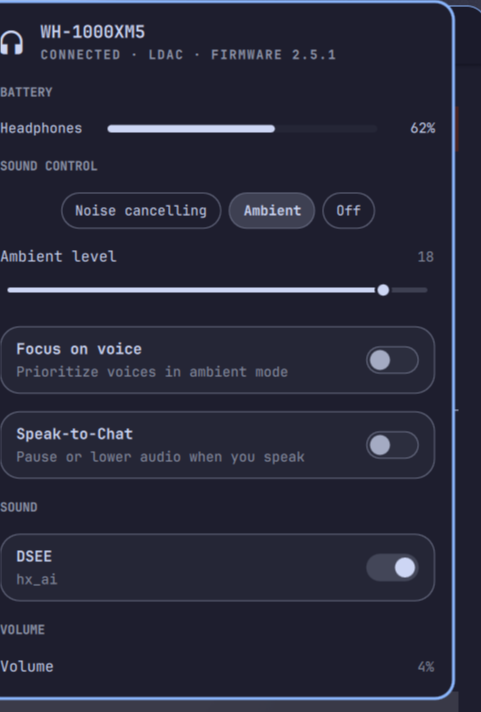
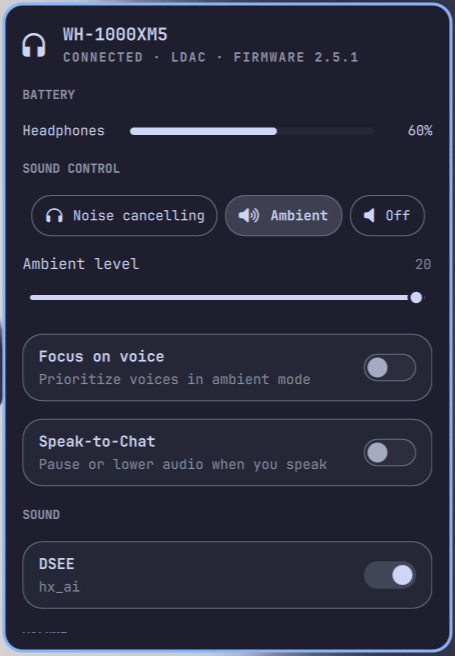
fix: normalize volume and polish sound controls

Changed region(s): [[0.0, 0.0, 1.0, 1.0], [0.7692, 0.061, 0.8, 0.0915]]

diff --git a/Panel.qml b/Panel.qml
@@ -30,23 +30,23 @@ Panel {
     var actions = []
     if (!service || !service.connected) return actions
     if (service.status.capabilities.noiseCancelling)
-      actions.push({ key: Model.NOISE_ANC, label: "Noise cancelling", icon: "", selected: service.noiseMode === Model.NOISE_ANC })
+      actions.push({ key: Model.NOISE_ANC, label: "Noise cancelling", glyph: "", selected: service.noiseMode === Model.NOISE_ANC })
     if (service.status.capabilities.ambientSound)
-      actions.push({ key: Model.NOISE_AMBIENT, label: "Ambient", icon: "", selected: service.noiseMode === Model.NOISE_AMBIENT })
-    actions.push({ key: Model.NOISE_OFF, label: "Off", icon: "", selected: service.noiseMode === Model.NOISE_OFF })
+      actions.push({ key: Model.NOISE_AMBIENT, label: "Ambient", glyph: "", selected: service.noiseMode === Model.NOISE_AMBIENT })
+    actions.push({ key: Model.NOISE_OFF, label: "Off", glyph: "", selected: service.noiseMode === Model.NOISE_OFF })
     return actions
   }
   readonly property var equalizerActions: {
     var actions = []
     for (var index = 0; index < eqPresets.length; ++index) {
       var preset = eqPresets[index]
-      actions.push({ key: preset, label: Model.presetLabel(preset), icon: "", selected: service && service.equalizerPreset === preset })
+      actions.push({ key: preset, label: Model.presetLabel(preset), glyph: "", selected: service && service.equalizerPreset === preset })
     }
     return actions
   }
   readonly property var connectionActions: service && service.connected && service.status.capabilities.connectionMode ? [
-    { key: "quality", label: "Sound quality", icon: "", selected: service.connectionPriority === "quality" },
-    { key: "stable", label: "Stable connection", icon: "", selected: service.connectionPriority === "stable" }
+    { key: "quality", label: "Sound quality", glyph: "", selected: service.connectionPriority === "quality" },
+    { key: "stable", label: "Stable connection", glyph: "", selected: service.connectionPriority === "stable" }
   ] : []
   readonly property var visibleSections: {
     var sections = []
@@ -204,8 +204,8 @@ Panel {
     bar: root.bar
     open: root.opened
     focusTarget: keyCatcher
-    contentWidth: panel.fittedContentWidth(Style.space(380))
-    contentHeight: panel.fittedContentHeight(content.implicitHeight, Style.space(560))
+    contentWidth: panel.fittedContentWidth(Style.space(360))
+    contentHeight: panel.fittedContentHeight(content.implicitHeight, Style.space(520))
 
     PanelKeyCatcher {
       id: keyCatcher
@@ -495,12 +495,12 @@ Panel {
 
   component ActionButton: Button {
     id: action
-    property string icon: ""
+    property string glyph: ""
     property string label: ""
     signal triggered()
 
     text: label
-    iconText: icon
+    iconText: action.glyph
     bordered: true
     foreground: root.foreground
     accent: Color.accent
@@ -554,7 +554,7 @@ Panel {
                 required property int index
                 readonly property int actionIndex: rowSlot.index * buttonGroup.columnCount + index
 
-                icon: modelData.icon || ""
+                glyph: String(modelData.glyph || "")
                 label: modelData.label || ""
                 selected: modelData.selected === true
                 hasCursor: root.cursorActive && root.focusSection === buttonGroup.sectionName

diff --git a/tests/model.test.js b/tests/model.test.js
@@ -84,6 +84,24 @@ assert.deepEqual(Array.from(context.noiseArgs("ambient")), ["noise", "ambient"])
 assert.deepEqual(Array.from(context.noiseArgs("invalid")), [])
 assert.deepEqual(Array.from(context.ambientArgs(99)), ["ambient-level", "20"])
 assert.deepEqual(Array.from(context.volumeArgs(-5)), ["volume", "0"])
+assert.deepEqual(Array.from(context.volumeArgs(101)), ["volume", "100"])
+assert.equal(context.mdrVolumeToPercent(0), 0)
+assert.equal(context.mdrVolumeToPercent(1), 3)
+assert.equal(context.mdrVolumeToPercent(15), 50)
+assert.equal(context.mdrVolumeToPercent(30), 100)
+assert.equal(context.percentToMdrVolume(0), 0)
+assert.equal(context.percentToMdrVolume(20), 6)
+assert.equal(context.percentToMdrVolume(50), 15)
+assert.equal(context.percentToMdrVolume(100), 30)
+assert.equal(context.canonicalVolumePercent(18), 17)
+assert.equal(context.canonicalVolumePercent(20), 20)
+assert.equal(context.canonicalVolumePercent(50), 50)
+assert.equal(context.canonicalVolumePercent(99), 100)
+for (let percent = 0; percent <= 100; ++percent) {
+  const canonical = context.canonicalVolumePercent(percent)
+  assert.ok(Math.abs(canonical - percent) <= 2)
+  assert.equal(context.canonicalVolumePercent(canonical), canonical)
+}
 assert.equal(context.levelText(context.UNKNOWN_LEVEL), "--")
 assert.equal(context.elideError("x\n   y"), "x y")
 assert.ok(context.elideError("x".repeat(400)).length <= context.MAX_ERROR_CHARS)

diff --git a/Model.js b/Model.js
@@ -17,6 +17,8 @@ var NOISE_AMBIENT = "ambient"
 
 var MAX_ERROR_CHARS = 160
 var HEADPHONES_ICON = ""
+var MDR_VOLUME_MAXIMUM = 30
+var VOLUME_PERCENT_MAXIMUM = 100
 
 function defaultBattery() {
   return { present: false, level: UNKNOWN_LEVEL, charging: "unknown" }
@@ -329,6 +331,20 @@ function ambientArgs(level) {
   return ["ambient-level", String(clamp(intOr(level, 1), 1, 20))]
 }
 
+function mdrVolumeToPercent(level) {
+  var clamped = clamp(intOr(level, 0), 0, MDR_VOLUME_MAXIMUM)
+  return Math.round(clamped * VOLUME_PERCENT_MAXIMUM / MDR_VOLUME_MAXIMUM)
+}
+
+function percentToMdrVolume(percent) {
+  var clamped = clamp(intOr(percent, 0), 0, VOLUME_PERCENT_MAXIMUM)
+  return Math.round(clamped * MDR_VOLUME_MAXIMUM / VOLUME_PERCENT_MAXIMUM)
+}
+
+function canonicalVolumePercent(percent) {
+  return mdrVolumeToPercent(percentToMdrVolume(percent))
+}
+
 function volumeArgs(volume) {
-  return ["volume", String(clamp(intOr(volume, 0), 0, 100))]
+  return ["volume", String(clamp(intOr(volume, 0), 0, VOLUME_PERCENT_MAXIMUM))]
 }

diff --git a/Service.qml b/Service.qml
@@ -112,8 +112,8 @@ Item {
   function setEqualizerPreset(preset) { _send(["eq-preset", preset], "equalizerPreset", preset) }
   function setConnectionPriority(priority) { _send(["connection", priority], "connectionPriority", priority) }
   function setVolume(value) {
-    var clamped = Model.clamp(Math.round(value), 0, 100)
-    _send(Model.volumeArgs(clamped), "volume", clamped)
+    var canonical = Model.canonicalVolumePercent(value)
+    _send(Model.volumeArgs(canonical), "volume", canonical)
   }
   Timer {
     id: settleTimer

diff --git a/native/tests/volume_test.cpp b/native/tests/volume_test.cpp
@@ -1,0 +1,35 @@
+#include "sony/volume.hpp"
+
+#include <cassert>
+#include <cstdlib>
+#include <iostream>
+
+int main() {
+  assert(sony::mdrVolumeToPercent(-1) == 0);
+  assert(sony::mdrVolumeToPercent(0) == 0);
+  assert(sony::mdrVolumeToPercent(1) == 3);
+  assert(sony::mdrVolumeToPercent(15) == 50);
+  assert(sony::mdrVolumeToPercent(29) == 97);
+  assert(sony::mdrVolumeToPercent(30) == 100);
+  assert(sony::mdrVolumeToPercent(31) == 100);
+
+  assert(sony::percentToMdrVolume(-1) == 0);
+  assert(sony::percentToMdrVolume(0) == 0);
+  assert(sony::percentToMdrVolume(1) == 0);
+  assert(sony::percentToMdrVolume(2) == 1);
+  assert(sony::percentToMdrVolume(20) == 6);
+  assert(sony::percentToMdrVolume(50) == 15);
+  assert(sony::percentToMdrVolume(99) == 30);
+  assert(sony::percentToMdrVolume(100) == 30);
+  assert(sony::percentToMdrVolume(101) == 30);
+
+  for (int percent = 0; percent <= 100; ++percent) {
+    const int canonical = sony::canonicalVolumePercent(percent);
+    assert(canonical >= 0);
+    assert(canonical <= 100);
+    assert(std::abs(canonical - percent) <= 2);
+    assert(sony::canonicalVolumePercent(canonical) == canonical);
+  }
+
+  std::cout << "volume_test: passed\n";
+}

diff --git a/native/src/mdr_backend.cpp b/native/src/mdr_backend.cpp
@@ -1,4 +1,5 @@
 #include "sony/backend.hpp"
+#include "sony/volume.hpp"
 
 #include <dbus/dbus.h>
 #include <mdr-bt/ConnectionLinux.h>
@@ -664,7 +665,7 @@ class MdrBackend final : public Backend {
     }
     MDRPlayback playback{};
     if (mdrHeadphonesGetPlayback(headphones_.get(), &playback) == MDR_RESULT_OK) {
-      state_.playback = {playbackName(playback.status), static_cast<int>(playback.volume)};
+      state_.playback = {playbackName(playback.status), mdrVolumeToPercent(static_cast<int>(playback.volume))};
     }
     MDRConnectionMode connection{};
     if (mdrHeadphonesGetConnectionMode(headphones_.get(), &connection) == MDR_RESULT_OK)
@@ -734,7 +735,7 @@ class MdrBackend final : public Backend {
     MDRPlayback value{};
     MDRResult result = mdrHeadphonesGetPlayback(headphones_.get(), &value);
     if (result != MDR_RESULT_OK) return result;
-    value.volume = static_cast<uint8_t>(command.number);
+    value.volume = static_cast<uint8_t>(percentToMdrVolume(command.number));
     return mdrHeadphonesSetPlayback(headphones_.get(), &value);
   }
 

diff --git a/native/include/sony/volume.hpp b/native/include/sony/volume.hpp
@@ -1,0 +1,24 @@
+#pragma once
+
+#include <algorithm>
+
+namespace sony {
+
+inline constexpr int kMdrVolumeMaximum = 30;
+inline constexpr int kVolumePercentMaximum = 100;
+
+constexpr int mdrVolumeToPercent(int level) {
+  const int clamped = std::clamp(level, 0, kMdrVolumeMaximum);
+  return (clamped * kVolumePercentMaximum + kMdrVolumeMaximum / 2) / kMdrVolumeMaximum;
+}
+
+constexpr int percentToMdrVolume(int percent) {
+  const int clamped = std::clamp(percent, 0, kVolumePercentMaximum);
+  return (clamped * kMdrVolumeMaximum + kVolumePercentMaximum / 2) / kVolumePercentMaximum;
+}
+
+constexpr int canonicalVolumePercent(int percent) {
+  return mdrVolumeToPercent(percentToMdrVolume(percent));
+}
+
+}  // namespace sony

diff --git a/docs/COMPATIBILITY.md b/docs/COMPATIBILITY.md
@@ -10,7 +10,7 @@ Controls are exposed from discovered capabilities, not a model allowlist. The na
 
 | Model | Firmware | Transport | Protocol | Read tests | Write tests | Status |
 |---|---|---|---|---|---|---|
-| WH-1000XM5 | 2.5.1 | Classic RFCOMM | MDR v2 | Identity, firmware, LDAC codec, main battery, capabilities, noise/ambient/focus, Speak-to-Chat, current EQ/DSEE, playback/volume, connection priority | ANC/ambient, ambient level, focus on voice, Speak-to-Chat, DSEE, play/pause, volume, quality/stability; every changed setting restored | Hardware-alpha pass on 2026-08-18 |
+| WH-1000XM5 | 2.5.1 | Classic RFCOMM | MDR v2 | Identity, firmware, LDAC codec, main battery, capabilities, noise/ambient/focus, Speak-to-Chat, current EQ/DSEE, playback/volume, connection priority | ANC/ambient, ambient level, focus on voice, Speak-to-Chat, DSEE, play/pause, normalized volume, quality/stability; every changed setting restored | Hardware-alpha pass on 2026-08-19 |
 
 Do not add a green/supported row without recording the firmware and actual read/write results.
 
@@ -28,7 +28,7 @@ Environment: Omarchy Quattro 4.0.0, WH-1000XM5 firmware 2.5.1, BlueZ 5.87, LDAC 
 
 The device reported these capabilities: main battery, playback metadata/control/volume, noise cancelling, ambient sound, Speak-to-Chat, equalizer, DSEE, paired-device management, pairing, general settings, noise-control button, auto-off, wearing detection, auto-pause, voice guidance, shutdown, connection mode, and safe listening. The UI still exposes only implemented, locally safe controls.
 
-Reversible write checks passed for ANC/ambient mode, ambient level `20 → 12 → 20`, focus on voice, Speak-to-Chat, DSEE, volume, play/pause, and connection priority `quality → stable → quality`. The state was re-read between writes and restored to the pre-test value.
+Reversible write checks passed for ANC/ambient mode, ambient level `20 → 12 → 20`, focus on voice, Speak-to-Chat, DSEE, volume, play/pause, and connection priority `quality → stable → quality`. The state was re-read between writes and restored to the pre-test value. Volume normalization was separately verified on 2026-08-19: MDR raw level `6` read as `20%`, `20 → 50 → 20` writes succeeded, and each normalized value was re-read from the device before restoring the original level.
 
 The current libmdr C ABI reports equalizer capability and the active preset but not the device's writable preset list. Schema v1 therefore publishes an empty `equalizer.available_presets`, the panel hides preset buttons, and direct preset commands are rejected. This is a deliberate capability gate, not a claim that the XM5 lacks EQ.
 

diff --git a/README.md b/README.md
@@ -8,18 +8,20 @@ The project is a hardware alpha. Its complete local control path has been tested
 | --- | --- |
 | ![Sony Headphones panel using an Omarchy dark theme](docs/screenshots/panel-dark.png) | ![Sony Headphones panel using an Omarchy light theme](docs/screenshots/panel-light.png) |
 
+The compact panel follows Omarchy's live palette and control tokens, so its background, borders, text, selected states, and icons update with the active system theme.
+
 ## Current control surface
 
 - Main, left, right, and case battery where reported
 - Noise cancellation, ambient sound level, and focus on voice
 - Speak-to-Chat
 - DSEE and equalizer presets only when the daemon reports the writable preset list
-- Headphone volume
+- Headphone volume, normalized from Sony's 31 hardware levels to a `0–100` percentage
 - Connection quality/stability preference
 
 Controls are capability-gated. A device that does not report a feature does not receive a dead toggle.
 
-Action buttons are centered in responsive rows. The panel follows Omarchy's keyboard model: Up/Down moves between control groups, Left/Right moves within a button row or adjusts a slider, Enter/Space activates the current control, Escape closes, and Tab/Shift+Tab switches neighboring bar panels. Transport playback buttons are intentionally not shown.
+Action buttons are centered in responsive rows, and the sound-control modes pair clear icons with their labels. The deliberately compact panel keeps native text and control sizing and scrolls when its lower sections exceed the available height. It follows Omarchy's keyboard model: Up/Down moves between control groups, Left/Right moves within a button row or adjusts a slider, Enter/Space activates the current control, Escape closes, and Tab/Shift+Tab switches neighboring bar panels. Transport playback buttons are intentionally not shown.
 
 Adaptive ambient tuning, custom EQ bands/Clear Bass, multipoint management, auto-off, wearing/auto-pause, assignable controls, voice guidance, pairing, and shutdown remain planned and are tracked in [TASKS.md](TASKS.md).
 

diff --git a/SPEC.md b/SPEC.md
@@ -76,6 +76,7 @@ Development runtime:
 - Conversation: Speak-to-Chat only when supported.
 - Equalizer: presets/DSEE and later custom bands only when supported.
 - The volume section appears only when its capability exists. Transport playback controls are not exposed in the panel.
+- Volume remains a normalized `0..100` public value. MDR hardware's 31 raw levels (`0..30`) are converted at the native protocol boundary, and the panel settles committed values to the nearest representable percentage.
 - Errors are short, actionable, and never expose raw packet data by default.
 - The panel consumes Omarchy's live `Color` and `Style` tokens, native controls, panel padding, and standard `ScrollView`; it must update without a shell restart when the theme changes.
 - Action buttons use content-sized native controls arranged in responsive rows whose contents are centered. Toggle rows, sliders, battery rows, and headings remain full-width.
@@ -153,6 +154,7 @@ playback play|pause|next|previous
 The CLI is the only supported shell-facing client. It validates argument shape before contacting the daemon, and the daemon rejects a preset that the current device state did not advertise in `equalizer.available_presets`.
 
 The v1 state and command schemas retain playback fields and commands for backward compatibility, but the Omarchy panel does not expose transport playback controls.
+The `volume` command and `playback.volume` state field are normalized percentages. The MDR backend maps them to and from the device's discrete `0..30` scale; callers must tolerate state settling to the nearest representable percentage.
 
 ## 6. Native design
 

diff --git a/TASKS.md b/TASKS.md
@@ -21,6 +21,8 @@
 - [x] Verify shell summon/hide and persistence across an Omarchy shell restart.
 - [x] Verify native theme controls, icon rendering, standard scrolling, and live dark/light palette changes.
 - [x] Verify Escape and arrow-key cursor navigation in the live Omarchy shell.
+- [x] Add labeled, theme-aware icons to the sound-control mode buttons.
+- [x] Compact the panel footprint without reducing control or text sizing.
 - [ ] Verify mouse click and disable/re-enable on a clean user account.
 
 ## Native service
@@ -36,6 +38,7 @@
 - [x] Verify a full real-backend compile/link with the exact Debian BlueZ development package in a temporary sysroot.
 - [x] Verify normal real-backend builds with installed BlueZ development headers on Omarchy.
 - [x] Test the implemented control surface against WH-1000XM5 firmware 2.5.1.
+- [x] Normalize the public percentage volume contract to Sony MDR's 31 hardware levels.
 - [ ] Add BLE/LE Audio transport after a real device proves it necessary.
 
 ## Reliability and performance

diff --git a/docs/screenshots/README.md b/docs/screenshots/README.md
@@ -2,5 +2,5 @@
 
 Release screenshots are captured from the live Omarchy shell after validation. They contain no Bluetooth address, account data, or private device identifier.
 
-- `panel-dark.png`: Megumi Fushiguro 1, captured on 2026-08-19.
-- `panel-light.png`: Catppuccin Latte, captured on 2026-08-19; the user's prior theme was restored immediately afterward.
+- `panel-dark.png`: compact panel using Megumi Fushiguro 1, captured on 2026-08-19.
+- `panel-light.png`: compact panel using Catppuccin Latte, captured on 2026-08-19; the user's prior theme was restored immediately afterward.
